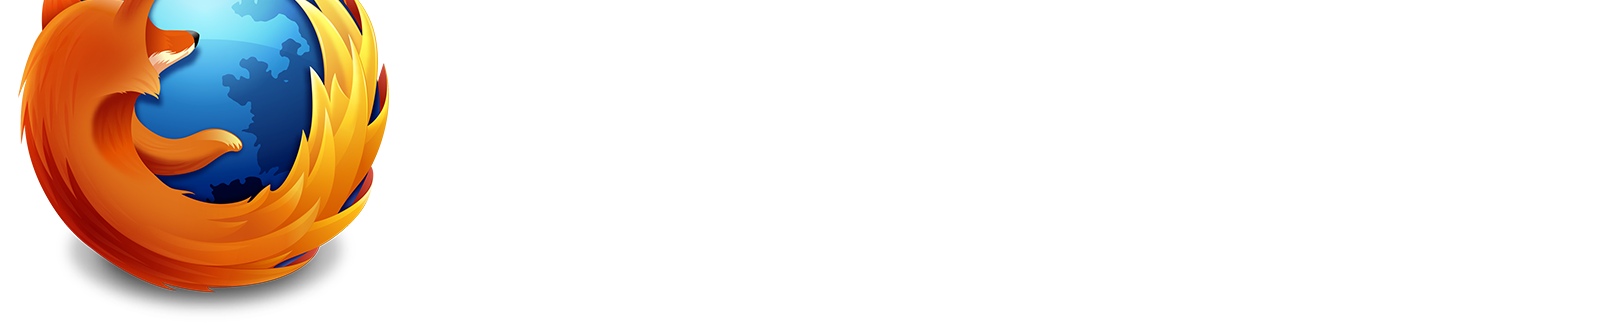
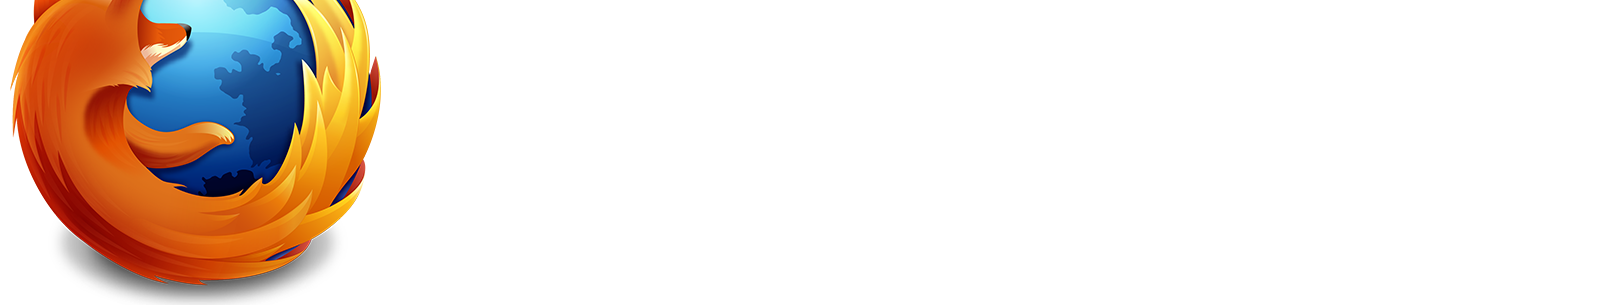
Style adjustments to make room for long headlines

Changed region(s): [[0.0, 0.0, 0.25, 1.0], [0.125, 0.7377, 0.1562, 0.7672], [0.125, 0.6787, 0.1562, 0.7082]]

diff --git a/media/css/firefox/partners/desktop.less b/media/css/firefox/partners/desktop.less
@@ -245,13 +245,13 @@
     }
 }
 #overview {
-    background: url(/media/img/firefox/partners/overview-bg.png) center top no-repeat;
+    background: url(/media/img/firefox/partners/overview-bg.png) center -15px no-repeat;
     h2 {
         font-size: 84px;
         letter-spacing: -4px;
         .span-all();
         padding-top: 40px;
-        padding-bottom: 40px;
+        padding-bottom: 30px;
     }
     .intro {
         p {
@@ -273,6 +273,7 @@
         }
         .partner-button {
             float: right;
+            margin-bottom: 5px;
         }
         #overview-news {
             clear: both;
@@ -287,12 +288,10 @@
                 left: 0;
             }
             h3 {
-                color: @textColorSecondary;
-                margin-left: 150px;
-                text-align: left;
-                font-weight: bold;
-                font-size: 18px;
-                text-transform: uppercase;
+                margin: 0 0 5px 150px;
+            }
+            ul {
+                margin: 0 0 10px 150px;
             }
         }
     }

diff --git a/media/css/firefox/partners.less b/media/css/firefox/partners.less
@@ -316,6 +316,24 @@
     }
     .intro {
         text-align: center;
+        #overview-news {
+            h3 {
+                text-align: left;
+                color: @textColorSecondary;
+                font-weight: bold;
+                font-size: 18px;
+                text-transform: uppercase;
+                margin-top: 10px;
+            }
+            ul {
+                text-align: left;
+                font-size: @smallFontSize;
+                li {
+                    margin-bottom: 5px;
+                    line-height: 1.2;
+                }
+            }
+        }
     }
     .overview-actions {
         margin: 0 0 20px 0;
